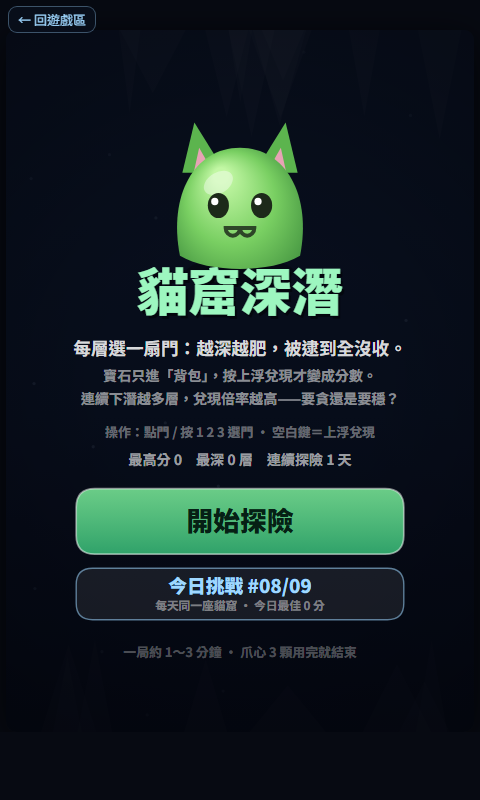
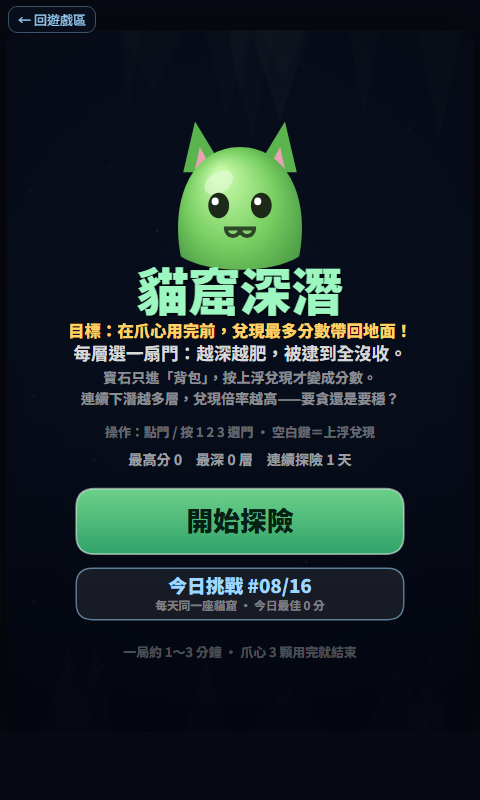
🔧 修復《貓窟深潛》：[玩家留言] 感覺應該不錯 但會讓人一直想選高風險的 不太明白目標 ➜ 開局前加

diff --git a/games/2026-08-09-001/index.html b/games/2026-08-09-001/index.html
@@ -139,6 +139,7 @@ function resetGame(daily){
     pressed:-1, elapsed:0
   };
   G.doors=genDoors(1);
+  pushMsg('目標：在爪心用完前，兌現最多分數帶回地面！');
   pushMsg('選一扇門下潛，寶石先進背包。');
   pushMsg('按下方大按鈕「上浮兌現」才算分數！');
 }
@@ -178,7 +179,7 @@ function minRisk(d){
 function genDoors(d){
   var R = G.daily ? mulberry32((G.seed+d*7919)>>>0) : Math.random;
   var base=3+d*1.2, mr=minRisk(d);
-  var spec=[{r:mr,g:1.0},{r:mr+0.14,g:2.0},{r:mr+0.30,g:3.6}];
+  var spec=[{r:mr,g:1.0},{r:mr+0.14,g:2.0},{r:mr+0.30,g:3.06}];
   var doors=spec.map(function(s){
     return {risk:Math.min(0.78,s.r), gem:Math.max(2,Math.round(base*s.g*(0.9+R()*0.25))),
             kind:'gem', open:0, trap:false, altar:false};
@@ -794,10 +795,12 @@ function drawTitle(){
   var bob=Math.sin(G.time*2)*3;
   ctx.fillStyle='rgba(0,0,0,0.5)'; F(44,'800'); txt('貓窟深潛',202,240+bob,'center');
   ctx.fillStyle='#9df7c0'; txt('貓窟深潛',200,238+bob,'center');
+  ctx.fillStyle='#ffd166'; F(14,'800');
+  txt('目標：在爪心用完前，兌現最多分數帶回地面！',200,262,'center');
   ctx.fillStyle='rgba(255,255,255,0.85)'; F(15,'700');
-  txt('每層選一扇門：越深越肥，被逮到全沒收。',200,278,'center');
+  txt('每層選一扇門：越深越肥，被逮到全沒收。',200,282,'center');
   ctx.fillStyle='rgba(255,255,255,0.55)'; F(12,'600');
-  txt('寶石只進「背包」，按上浮兌現才變成分數。',200,300,'center');
+  txt('寶石只進「背包」，按上浮兌現才變成分數。',200,302,'center');
   txt('連續下潛越多層，兌現倍率越高——要貪還是要穩？',200,320,'center');
   ctx.fillStyle='rgba(255,255,255,0.4)'; F(11,'600');
   txt('操作：點門 / 按 1 2 3 選門 ‧ 空白鍵＝上浮兌現',200,348,'center');

diff --git a/games.js b/games.js
@@ -1019,8 +1019,16 @@ const GAMES = [
       {
         "date": "2026-08-16",
         "note": "[玩家留言] 感覺應該不錯 但會讓人一直想選高風險的 不太明白目標 ➜ 開局前加一行目標說明文字（如：在氧氣耗盡前帶回最多寶物），並將高風險選項期望報酬下修約15%使風險檔位期望值接近",
-        "status": "open",
-        "source": "web"
+        "status": "fixed",
+        "source": "web",
+        "fixed_at": "2026-08-16"
+      }
+    ],
+    "updated_at": "2026-08-16",
+    "changelog": [
+      {
+        "date": "2026-08-16",
+        "summary": "開局會告訴你目標，高風險選項也不再誘人爆表，玩起來更平衡！"
       }
     ]
   },

diff --git a/index.html b/index.html
@@ -213,7 +213,7 @@
 
 <script src="sc_config.js"></script>
 <script src="stats.js"></script>
-<script src="games.js?v=344695e0"></script>
+<script src="games.js?v=24a38633"></script>
 <script>
 const appStatus = document.getElementById("app-status");
 const app = document.getElementById("app");

diff --git a/factory/knowledge/learnings.md b/factory/knowledge/learnings.md
@@ -182,3 +182,4 @@
 - 2026-08-16 玩家留言《貓客滿樓》8/10：只有100秒不夠玩 蠻好玩的 感覺可以做成無限模式 ➜ 限時類遊戲的單局長度要以玩家意猶未盡但不嫌短為準，並保留加時機制當調節閥
 - 2026-08-16 玩家留言《貓窟深潛》6/10：感覺應該不錯 但會讓人一直想選高風險的 不太明白目標 ➜ 風險選擇玩法必須先讓玩家清楚目標，且各風險檔期望值要拉近，否則玩家只會無腦選高風險
 - 2026-08-16 修復《貓客滿樓》：[玩家留言] 只有100秒不夠玩 蠻好玩的 感覺可以做成無限模式 ➜ 將單局倒數時間由100秒調整為150秒，並每完成一組目標加5秒；無限模式屬新玩法暫不實作僅（AI 修復+品管通過）
+- 2026-08-16 修復《貓窟深潛》：[玩家留言] 感覺應該不錯 但會讓人一直想選高風險的 不太明白目標 ➜ 開局前加一行目標說明文字（如：在氧氣耗盡前帶回最多寶物），並將高風險選項期望報酬下修約1（AI 修復+品管通過）
